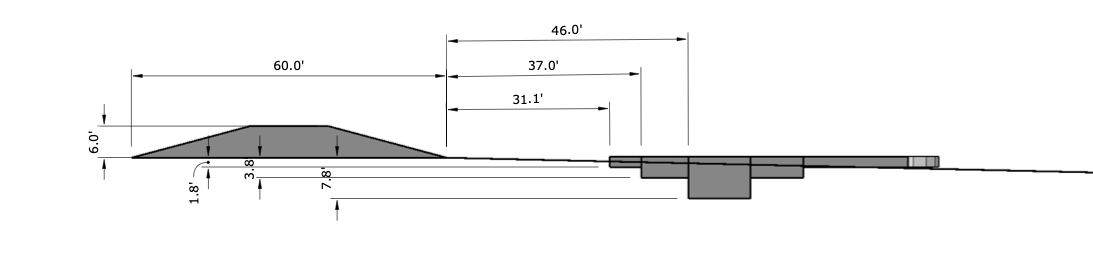
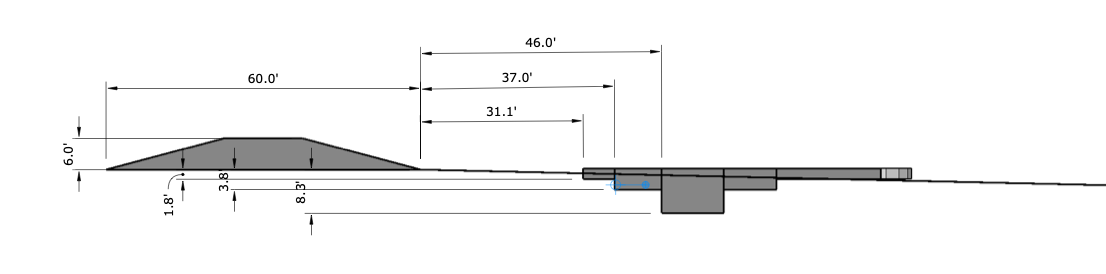
pool is 1/2 ft deeper

diff --git a/README.md b/README.md
@@ -235,6 +235,10 @@ While all of the piping factors of safety exceeds USACE requirements, it is reco
 
 ## Table 3: Uplift Pressure
 
+Uplift pressure calculations were done using the USACE's guidelines for the computation of uplift on a structure within the impervious blanket in the critical area of a flood control project.
+
+> Source: _Guidance for Work Proposed near or within a Federally Constructed Flood Risk Management Project_ [https://www.nwk.usace.army.mil/Missions/Engineering-Division/Geotechnical-Branch/Geotechnical-Design-and-Dam-Safety/](https://www.nwk.usace.army.mil/Missions/Engineering-Division/Geotechnical-Branch/Geotechnical-Design-and-Dam-Safety/)
+
 ![Illustration of Uplift Pressure Calculations](https://raw.githubusercontent.com/nathancolgate/corps-of-engineers-pool-report/master/uplift_pressure.png)
 <small>_Figure: Illustration of Uplift Pressure Calculations._</small>
 
@@ -242,11 +246,13 @@ While all of the piping factors of safety exceeds USACE requirements, it is reco
 |--------|--------|------|--------|--------|--------|--------------------|
 | Height of hydraulic gradient above the bottom of the impervious blanket | H1     | 20.8  | 20.8  | 20.7  | ft     | D<sub>b</sub> + h<sub>x</sub> |
 | Height of blanket                                                       | H2     | 18.3  | 18.3  | 18.3  | ft     | D<sub>b</sub>                 |
-| Depth of Excavation below Toe                                                     | H3     | 1.75   | 3.75   | 7.75   | ft     | d<sub>excavation</sub>                |
+| Depth of Excavation below Toe                                                     | H3     | 1.75   | 3.75   | 7.75   | ft     | As designed |
 | Unit weight of Water                                                    | GW     | 62.40  | 62.40  | 62.40  | lb/ft3 |                    |
 | Uplift Pressure at the base of structure                                | P3     | 124.3 | 265.5 | 546.5 | lb/ft2 | USACE Calculation: ![Cross Section of Levee](https://raw.githubusercontent.com/nathancolgate/corps-of-engineers-pool-report/master/calcs/p3.png) |
 
-## Table 4: Uplift Gradient
+## Table 4: Uplift
+
+Actual uplift is then calculated by multiplying the uplift force by the footprint of the pools.
 
 ![Pool Design](https://raw.githubusercontent.com/nathancolgate/corps-of-engineers-pool-report/master/pool_areas.png)
 <small>_Figure: The design of the pool indicating the three pool zones and their surface areas_</small>
@@ -276,11 +282,11 @@ A load comparison can be done to determine the factor of safety against floatati
 
 ### Pool Excavation Methodology and Design Modifications
 
-Based on the analyses provided in the above sections for underseepage and uplift forces, a modified pool design will be required in order to prevent uplift. Fortuntaly, the standard design for NSPs / ponds already call for lining the pool bottom with rocks. Additional weight will be added to the pool using rocks in the following ways:
+Based on the analyses provided in the above sections for underseepage and uplift forces, a modified pool design will be required in order to prevent uplift. Fortuntaly, the standard design for NSPs / ponds already calls for lining the pool bottom with rocks. Additional weight will be added to the pool using rocks in the following ways:
 
 1. At least 3 inches of rock will be added to the bottom of the plant regeneration zone
-1. At least 9 inches of rock will be added to the bottom of the plant shallow zone
-1. At least 22 inches of rock will be added to the bottom of the plant deep zone
+1. At least 9 inches of rock will be added to the bottom of the shallow zone
+1. At least 22 inches of rock will be added to the bottom of the deep zone
 
 ![Anatomy of a Natural Swimming Pool](https://raw.githubusercontent.com/nathancolgate/corps-of-engineers-pool-report/master/anatomy_of_nsp.png)
 <small>_Figure: Typical Design of a Natural Swimming Pool (NSP)._</small>
@@ -293,30 +299,29 @@ To further address uplift pressures when the pool is empty or partially filled, 
 ![Valve Diagram](https://raw.githubusercontent.com/nathancolgate/corps-of-engineers-pool-report/master/valve_diagram.png)
 <small>_Figure: Valve installation diagram._</small>
 
+## Table 7: Additional Design Weight
+
 The following table breaks down the additional weight the rocks will add to the pool.
 
-The unit weight of water filled rock was determined to be 119 lbs/ft<sup>3</sup> by an on-site test in which a bucket was filled with the desired rock material, topped off with water, and then weighed and measured.
+The unit weight of water filled rock was determined to be 118.9 lbs/ft<sup>3</sup> by an on-site test in which a bucket was filled with the desired rock material, topped off with water, and then weighed and measured.
 
-| Zone | Deep Swim | Shallow Swim | Biological Filter | Boulders | Total | UOM |
+| Description | Symbol | Z<sub>regen</sub> | Z<sub>shallow</sub> | Z<sub>deep</sub> | UOM | Source |
 |-------|-------|-------|-------|-------|-------|-------|
-| Total Volume | 3,187.0 | 1,576.0 | 2,099.0 | 100.0 | 6,962.0 | ft<sup>3</sup> |
-| Total Area | 541.0 (105.0 at bottom) | 812.0 | 1,070.0 |  | 2,423.0 | ft<sup>2</sup> |
-| Rock Addition | Add 0.5 ft to bottom | Add 0.5 ft to bottom | Fill 75% of volume per NSP guidebook | | |
-| Volume of Rock | 52.5 | 406.0 | 1,575.3 | 100.0 | 2,132.8 | ft<sup>3</sup> |
-| Unit Weight of Rock | 119.0 | 119.0 | 119.0 | 165.0 | | lbs/ft<sup>3</sup> |
-| Weight of Rock | 6,247.5 | 48,314.0 | 187,335.8 | 16,500.0 | 258,397.3 | lbs |
-| Volume of Water | 3,134.5 | 1,170.0 | 524.8 | 0.0 | 4,829.3 | ft<sup>3</sup> |
-| Unit Weight of Water | 62.4 | 62.4 | 62.4 | 62.4 | | lbs/ft<sup>3</sup> |
-| Weight of Water | 195,592.8 | 73,008.0 | 32,744.4 | 0.0 | 301,345.2 | lbs |
+| Rock depth | d<sub>rock</sub> | 0.25 | 0.75 | 1.83 | ft | As designed |
+| Rock volume |  v<sub>rock</sub> | 430.9 | 445.9 | 193.1 | ft<sup>3</sup> | d<sub>rock</sub> * a<sub>pool</sub> |
+| Unit Weight of Saturated Rock | γ<sub>rock</sub> | 118.9 | 118.9 | 118.9 | lbs/ft<sup>3</sup> | |
+| Weight of Saturated Rock | e<sub>rock</sub> | 51,228.1 | 53,014.5 | 22,955.4 | lbs | γ<sub>rock</sub> * v<sub>rock</sub> |
+| Water Volume | v<sub>water</sub> | 3,016.0 | 1,932.1 | 651.0 | ft<sup>3</sup> | v<sub>pool</sub> - v<sub>rock</sub> |
+| Unit Weight of Water | γ<sub>w</sub> | 62.4 | 62.4 | 62.4 | lbs/ft<sup>3</sup> | |
+| Weight of Water | e<sub>water</sub> | 188,195.3 | 120,564.6 | 40,618.3 | lbs | γ<sub>water</sub> * v<sub>water</sub> |
+| Weight of Pool | e<sub>pool</sub> | 239,423.3 | 173,579.1 | 63,573.8 | lbs | e<sub>water</sub> + e<sub>rock</sub> |
 
 
 ## Table 9: Designed Uplift Factors of Safety Calculations
 
-| Description                              | Symbol           | Value     | UOM    | Source                     |
-|------------------------------------------|------------------|-----------|--------|----------------------------|
-| Total Uplift | u<sub>total</sub> | 505,640.7 | lbs | u<sub>pool</sub> + u<sub>gradientaverage</sub> |
-| Total Weight | e<sub>pool</sub> | 559,742.5 |  lbs | Total Weight of Water + Total Weight of Rock|
-| Uplift Factor of Safety| | 1.10 | unitless | e<sub>pool</sub> / u<sub>total</sub> |
+| Description                              | Symbol           | Z<sub>regen</sub>  | Z<sub>shallow</sub>  | Z<sub>deep</sub>  | UOM    | Source                     |
+|--------|--------|-------------|------------------|-----------|--------|----------------------------|
+| Uplift Factor of Safety| F<sub>s</sub> | 1.12 | 1.10 | 1.11 | unitless | e<sub>pool</sub> / u<sub>pool</sub> |
 
 ## Interim Flood Protection and Contingency Plan
 
